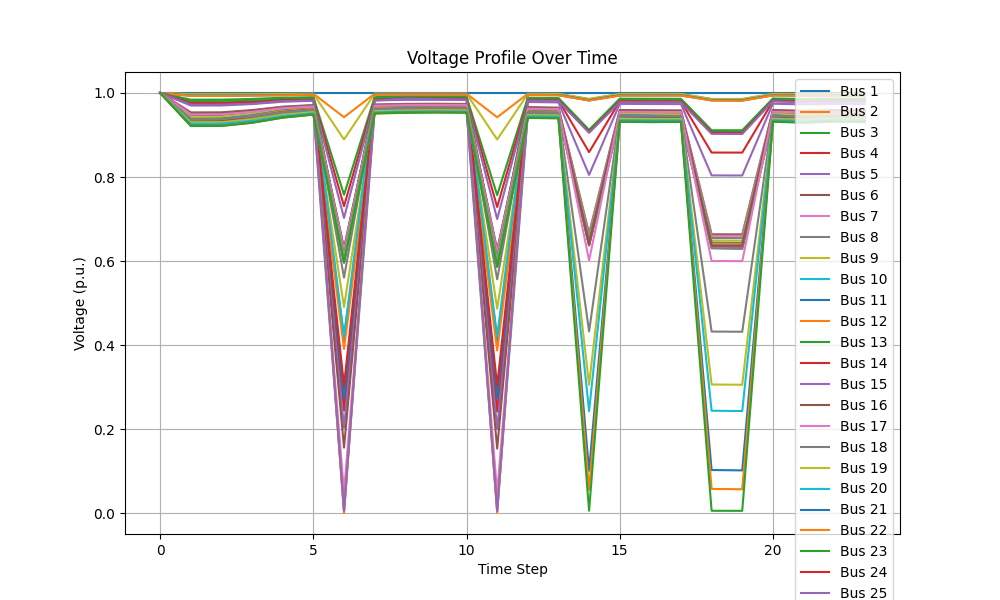
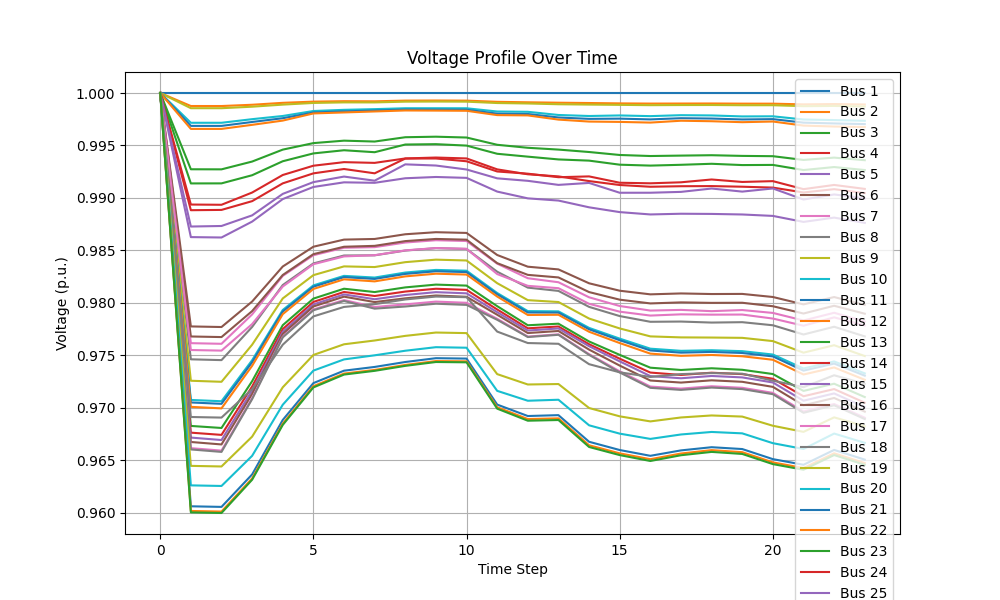
Fix the values for the example in the run_env

diff --git a/MADRL/environments/flex_provision/flexibility_provision_env.py b/MADRL/environments/flex_provision/flexibility_provision_env.py
@@ -91,41 +91,31 @@ class FlexibilityProvisionEnv(MultiAgentEnv):
     def step(self, actions):
         num_buildings = len(self.base_powergrid['buildings'])
         
-        percentage_reduction = {self.base_powergrid['buildings'][i]: actions[i] for i in range(num_buildings)}
-        ess_charging = {self.base_powergrid['ESSs_at_buildings'][i]: actions[num_buildings + i] for i in range(num_buildings)}
-        ess_discharging = {self.base_powergrid['ESSs_at_buildings'][i]: actions[2 * num_buildings + i] for i in range(num_buildings)}
-        q_pv = {self.base_powergrid['PVs_at_buildings'][i]: actions[3 * num_buildings + i] for i in range(num_buildings)}
+        # Scale actions based on the provided env_args
+        percentage_reduction = {self.base_powergrid['buildings'][i]: self.args.max_power_reduction * actions[i] for i in range(num_buildings)}
+        ess_charging = {self.base_powergrid['ESSs_at_buildings'][i]: self.args.p_ch_max * actions[num_buildings + i] for i in range(num_buildings)}
+        ess_discharging = {self.base_powergrid['ESSs_at_buildings'][i]: self.args.p_dis_max * actions[2 * num_buildings + i] for i in range(num_buildings)}
+        # q_pv = {self.base_powergrid['PVs_at_buildings'][i]: actions[3 * num_buildings + i] for i in range(num_buildings)}
+
+        # Compute the current active power for PVs
+        pv_active_power = {g: self.current_pv_power[g] for g in self.base_powergrid['PVs_at_buildings']}
 
         # Clip the power reduction percentages to be within the allowed range
         percentage_reduction = self.clip_percentage_reduction(percentage_reduction)
+        
         # Compute power reduction based on active power demand and percentage reduction
         power_reduction = {building: self.current_active_demand[building] * percentage_reduction[building] for building in self.base_powergrid['buildings']}
 
         # Adjust ESS actions to prevent simultaneous charging and discharging
         ess_charging, ess_discharging = self.adjust_ess_actions(ess_charging, ess_discharging)
 
+        # Clip the reactive power for PVs using the scaling and clipping function
+        q_pv = {}
         for g in self.base_powergrid['PVs_at_buildings']:
-            q_pv[g] = self._clip_reactive_power(q_pv[g], self.current_pv_power[g])
+            q_pv[g] = self._scale_and_clip_q_pv(actions[3 * num_buildings + self.base_powergrid['PVs_at_buildings'].index(g)], pv_active_power[g])
 
         for k in ess_charging:
             ess_charging[k], ess_discharging[k] = self._clip_power_charging_discharging(ess_charging[k], ess_discharging[k], self.current_ess_energy[k])
-
-        pv_active_power = {g: self.current_pv_power[g] for g in self.base_powergrid['PVs_at_buildings']}
-        
-        # # Ensure the keys match the indices of the components in the network data
-        # pv_active_power = {k: pv_active_power[k] for k in self.base_powergrid['PVs_at_buildings']}
-        # q_pv = {k: q_pv[k] for k in self.base_powergrid['PVs_at_buildings']}
-
-        # Print all values going into the power_flow_solver
-        print("Network Data:", self.base_powergrid)
-        print("Active Power Demand:", self.current_active_demand)
-        print("Reactive Power Demand:", self.current_reactive_demand)
-        print("Power Reduction:", power_reduction)
-        print("PV Active Power:", pv_active_power)
-        print("PV Reactive Power:", q_pv)
-        print("ESS Charging:", ess_charging)
-        print("ESS Discharging:", ess_discharging)
-        print("Initial ESS Energy:", self.initial_ess_energy)
 
         result = power_flow_solver(
             self.base_powergrid,
@@ -138,8 +128,6 @@ class FlexibilityProvisionEnv(MultiAgentEnv):
             ess_discharging,
             self.initial_ess_energy
         )
-
-        print("Results", result)
 
         voltages = result['Voltages']
         ess_energy = result['Next ESS Energy']
@@ -164,6 +152,12 @@ class FlexibilityProvisionEnv(MultiAgentEnv):
 
         # Ensure the reward is a scalar value
         total_reward = np.sum(reward)
+
+        # Store the values as attributes for later access
+        self.percentage_reduction = percentage_reduction
+        self.ess_charging = ess_charging
+        self.ess_discharging = ess_discharging
+        self.q_pv = q_pv
 
         return total_reward, terminated, info
 
@@ -223,7 +217,6 @@ class FlexibilityProvisionEnv(MultiAgentEnv):
 
     def _load_pv_data(self):
         """load pv data
-        the sensor frequency is set to 3 or 15 mins as default
         """
         pv_path = os.path.join(self.data_path, 'pv_active.csv')
         pv = pd.read_csv(pv_path, index_col=None)
@@ -234,29 +227,36 @@ class FlexibilityProvisionEnv(MultiAgentEnv):
 
     def _load_active_demand_data(self):
         """load active demand data
-        the sensor frequency is set to 3 or 15 mins as default
         """
         demand_path = os.path.join(self.data_path, 'load_active.csv')
         demand = pd.read_csv(demand_path, index_col=None)
         demand.index = pd.to_datetime(demand.iloc[:, 0])
         demand.index.name = 'time'
         demand = demand.iloc[::1, 1:] * self.args.demand_scale
+        # # Drop the first column (DateTime) as it is now set as the index
+        # demand = demand.drop(columns=demand.columns[0])
+
+        # # Apply scaling to the DataFrame columns
+        # demand = demand * self.args.demand_scale
         return self.resample_data(demand, self.sample_interval)
     
     def _load_reactive_demand_data(self):
         """load reactive demand data
-        the sensor frequency is set to 3 min as default
         """
         demand_path = os.path.join(self.data_path, 'load_reactive.csv')
         demand = pd.read_csv(demand_path, index_col=None)
         demand.index = pd.to_datetime(demand.iloc[:, 0])
         demand.index.name = 'time'
         demand = demand.iloc[::1, 1:] * self.args.reactive_scale
+        # # Drop the first column (DateTime) as it is now set as the index
+        # demand = demand.drop(columns=demand.columns[0])
+
+        # # Apply scaling to the DataFrame columns
+        # demand = demand * self.args.reactive_scale
         return self.resample_data(demand, self.sample_interval)
     
     def _load_price_data(self):
         """load price data
-        the sensor frequency is set to 3 min as default
         """
         price_path = os.path.join(self.data_path, 'prices.csv')
         price = pd.read_csv(price_path, index_col=None)
@@ -303,10 +303,12 @@ class FlexibilityProvisionEnv(MultiAgentEnv):
         self.current_reactive_demand = {bus: self.reactive_demand_history[self.steps][i] for i, bus in enumerate(self.base_powergrid['bus_numbers'])}
         self.current_price = self.price_history[self.steps]
 
-    def _clip_reactive_power(self, reactive_actions, active_power):
-        """Clip the reactive power to the safety range."""
-        reactive_power_constraint = tan(acos(self.cos_phi_max)) * active_power
-        return np.clip(reactive_actions, -reactive_power_constraint, reactive_power_constraint)
+    def _scale_and_clip_q_pv(self, reactive_action, active_power):
+        """Scale and clip the reactive power based on the action and active power."""
+        reactive_power_constraint = tan(acos(self.args.cos_phi_max)) * active_power
+        q_pv_min = -reactive_power_constraint
+        q_pv_max = reactive_power_constraint
+        return np.clip(q_pv_min + reactive_action * (q_pv_max - q_pv_min), q_pv_min, q_pv_max)
 
     def _clip_power_charging_discharging(self, charging, discharging, current_ess_energy):
         # Clip charging and discharging to their respective maximum values

diff --git a/run_env.py b/run_env.py
@@ -46,6 +46,12 @@ for e in range(n_episodes):
     max_steps = 24
     episode_reward = 0
 
+    # Initialize lists to store real action values for each timestep
+    all_percentage_reduction = []
+    all_ess_charging = []
+    all_ess_discharging = []
+    all_q_pv = []
+
     # Initialize lists to store results for each timestep
     all_active_demand = []
     all_reactive_demand = []
@@ -59,9 +65,6 @@ for e in range(n_episodes):
         obs = env.get_obs()
         state = env.get_state()
 
-        # Log the state for inspection
-        logger.info(f"State at timestep {t}: {state}")
-
         actions = []
         for agent_id in range(n_agents):
             avail_actions = env.get_avail_agent_actions(agent_id)
@@ -72,13 +75,23 @@ for e in range(n_episodes):
 
         actions = np.concatenate(actions, axis=0)
 
-        logger.info(f"Actions at timestep {t}: {actions}")
-            
-        reward, _, info = env.step(actions)
+        reward, _, info  = env.step(actions)
 
         episode_reward += reward
 
         rewards.append(episode_reward)
+
+        # Accessing the values directly from the environment's state
+        percentage_reduction = env.percentage_reduction
+        ess_charging = env.ess_charging
+        ess_discharging = env.ess_discharging
+        q_pv = env.q_pv
+
+        # Append the processed action values to the respective lists
+        all_percentage_reduction.append(percentage_reduction)
+        all_ess_charging.append(ess_charging)
+        all_ess_discharging.append(ess_discharging)
+        all_q_pv.append(q_pv)
 
         # Extract and store results from the state
         num_buses = len(env.base_powergrid['bus_numbers'])
@@ -106,18 +119,33 @@ for e in range(n_episodes):
         all_prices.append(prices)
         all_ess_energy.append(ess_energy)
 
-        # Log the extracted values
-        logger.info(f"Active Demand at timestep {t}: {active_demand}")
-        logger.info(f"Reactive Demand at timestep {t}: {reactive_demand}")
-        logger.info(f"PV Power at timestep {t}: {pv_power}")
-        logger.info(f"Voltages at timestep {t}: {voltages}")
-        logger.info(f"Prices at timestep {t}: {prices}")
-        logger.info(f"ESS Energy at timestep {t}: {ess_energy}")
+        # Log the real values inside the logger.info() calls
+        logger.info(f"Real Active Demand at timestep {t} (kW): "
+                    f"{ {bus: active_demand[bus] * env_config_dict['s_nom'] for bus in active_demand} }")
+        logger.info(f"Real Reactive Demand at timestep {t} (kVar): "
+                    f"{ {bus: reactive_demand[bus] * env_config_dict['s_nom'] for bus in reactive_demand} }")
+        logger.info(f"Real PV Power at timestep {t} (kW): "
+                    f"{ {pv: pv_power[pv] * env_config_dict['s_nom'] for pv in pv_power} }")
+        logger.info(f"Voltages at timestep {t} (pu): {voltages}")
+        logger.info(f"Prices at timestep {t} (Euros/kWh): {prices}")
+        logger.info(f"ESS Energy at timestep {t} (kWh): "
+                    f"{ {ess: ess_energy[ess] * env_config_dict['s_nom'] for ess in ess_energy} }")
+        logger.info(f"Power Reduction at timestep {t} (kW): "
+                    f"{ {building: percentage_reduction[building] * active_demand[building] * env_config_dict['s_nom'] for building in percentage_reduction} }")
+        logger.info(f"ESS Charging at timestep {t} (kW): "
+                    f"{ {ess: ess_charging[ess] * env_config_dict['s_nom'] for ess in ess_charging} }")
+        logger.info(f"ESS Discharging at timestep {t} (kW): "
+                    f"{ {ess: ess_discharging[ess] * env_config_dict['s_nom'] for ess in ess_discharging} }")
+        logger.info(f"Reactive Power from PV at timestep {t} (kVar): "
+                    f"{ {pv: q_pv[pv] * env_config_dict['s_nom'] for pv in q_pv} }")
         logger.info(f"Reward at timestep {t}: {reward}")
     
     logger.info(f"Total reward in episode {e} = {episode_reward:.2f}")
-
+    
     # Plot results
-    plot_environment_results(all_active_demand, all_reactive_demand, all_pv_power, all_voltages, all_prices, all_ess_energy, rewards)
+    plot_environment_results(all_active_demand, all_reactive_demand, all_pv_power, 
+                             all_voltages, all_prices, all_ess_energy, rewards, all_percentage_reduction, 
+                             all_ess_charging, all_ess_discharging, all_q_pv
+                             )
 
 env.close()

diff --git a/utils/plot_res.py b/utils/plot_res.py
@@ -229,7 +229,9 @@ def plot_power_flow_results(results):
     plt.close()
 
 # Function to plot environment results
-def plot_environment_results(active_demand, reactive_demand, pv_power, voltages, prices, ess_energy, rewards):
+def plot_environment_results(active_demand, reactive_demand, pv_power, voltages, 
+                             prices, ess_energy, rewards, percentage_reduction, ess_charging, ess_discharging, q_pv):
+    
     timesteps = range(len(active_demand))
 
     # Active Power Demand
@@ -311,4 +313,53 @@ def plot_environment_results(active_demand, reactive_demand, pv_power, voltages,
     plt.ylabel('Cumulative Reward (Euros)')
     plt.grid(True)
     plt.savefig('plots/run_env_results/Cumulative_Reward.png')
+    plt.close()
+
+    # Plot Percentage Reduction
+    plt.figure(figsize=(10, 6))
+    for building in percentage_reduction[0].keys():
+        plt.plot(timesteps, [pr[building] * env_config_dict['s_nom'] * active_demand[t][building]for t, pr in enumerate(percentage_reduction)], 
+                 label=f'Building {building}')
+    plt.title('Power Reduction Over Time')
+    plt.xlabel('Time Step')
+    plt.ylabel('Power Reduction (kW)')
+    plt.grid(True)
+    plt.legend()
+    plt.savefig('plots/run_env_results/Power_Reduction.png')
+    plt.close()
+
+    # Plot ESS Charging
+    plt.figure(figsize=(10, 6))
+    for ess in ess_charging[0].keys():
+        plt.plot(timesteps, [ch[ess] * env_config_dict['s_nom'] for ch in ess_charging], label=f'ESS {ess} Charging')
+    plt.title('ESS Charging Power Over Time')
+    plt.xlabel('Time Step')
+    plt.ylabel('Charging Power (kW)')
+    plt.grid(True)
+    plt.legend()
+    plt.savefig('plots/run_env_results/ESS_Charging.png')
+    plt.close()
+
+    # Plot ESS Discharging
+    plt.figure(figsize=(10, 6))
+    for ess in ess_discharging[0].keys():
+        plt.plot(timesteps, [dch[ess] * env_config_dict['s_nom'] for dch in ess_discharging], label=f'ESS {ess} Discharging')
+    plt.title('ESS Discharging Power Over Time')
+    plt.xlabel('Time Step')
+    plt.ylabel('Discharging Power (kW)')
+    plt.grid(True)
+    plt.legend()
+    plt.savefig('plots/run_env_results/ESS_Discharging.png')
+    plt.close()
+
+    # Plot Reactive Power of PVs
+    plt.figure(figsize=(10, 6))
+    for pv in q_pv[0].keys():
+        plt.plot(timesteps, [q[pv] * env_config_dict['s_nom'] for q in q_pv], label=f'PV {pv} Reactive Power')
+    plt.title('PV Reactive Power Over Time')
+    plt.xlabel('Time Step')
+    plt.ylabel('Reactive Power (kVar)')
+    plt.grid(True)
+    plt.legend()
+    plt.savefig('plots/run_env_results/PV_Reactive_Power.png')
     plt.close()
